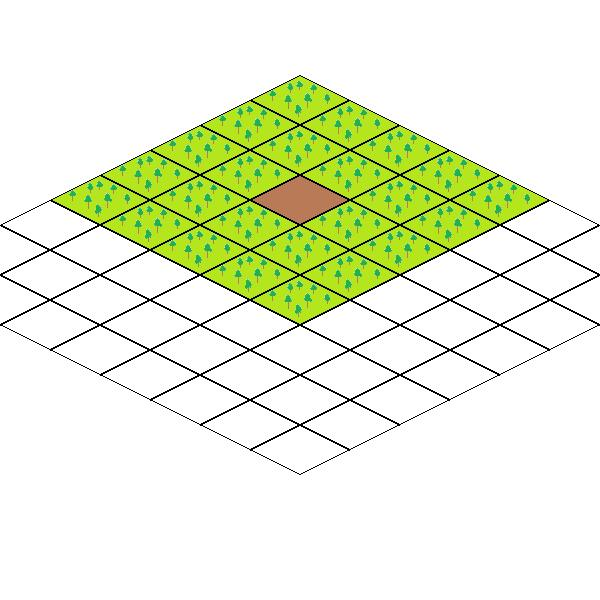
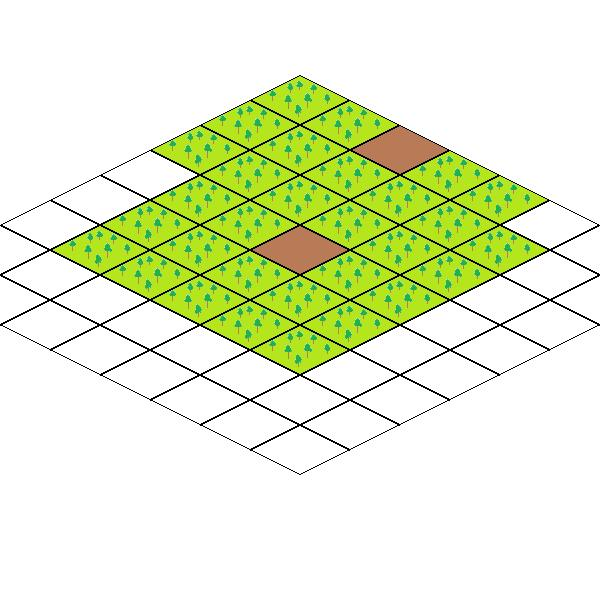
Added some functionality for settlements harvesting resources

Changed region(s): [[0.09, 0.24, 0.9, 0.63], [0.42, 0.27, 0.57, 0.48], [0.57, 0.21, 0.75, 0.3]]

diff --git a/settlement.py b/settlement.py
@@ -2,17 +2,21 @@ from tiles import Tile
 from sprite import Sprite
 from map_render import Map, MapRenderer
 from tile_types import *
+from resources import ResourceStack
 
 class Settlement():
-    def __init__(self, app, tile, mapRenderer):
+    def __init__(self, app, tile, civilization, mapRenderer):
         self.app = app
         self.row = tile.row
         self.col = tile.col
         self.sprite = Tile.defaultSprites['brown_tile']
         self.mapRenderer = mapRenderer
+        self.civilization = civilization
         self.size = 2
         self.settlementTiles = Settlement.createTileList(self.row, self.col, self.size, self.app.map)
         self.population = 2
+        self.harvestedTiles = [self.settlementTiles[0,0]]
+        self.civilization.addSettlement(self)
 
     def __repr__(self):
         return f'settlement(row={self.row}, col={self.col})'
@@ -23,6 +27,14 @@ class Settlement():
     def __hash__(self):
         return hash(str(self))
     
+    def harvestResources(self):
+        for tile in self.harvestedTiles:
+            resources = tile.getResources()
+            if resources == []: continue
+            else: 
+                for stack in resources:
+                    ResourceStack.addStackToCivilization(stack, self.civilization)
+
     def instantiate(self):
         tile = self.app.map.tileList[self.row, self.col]
         Settlement.colorSettlementTiles(self.app, self)

diff --git a/Main.py b/Main.py
@@ -51,7 +51,6 @@ def drawResourceIcons(app):
         imageLocs = icon.getImageLocs()
         for loc in imageLocs:
             imgX, imgY = loc
-            # labelX, labelY = icon.getLabelLoc(imgX,imgY)
             drawImage(icon.getResources()[i].getType().getImagePath(), imgX, imgY)
             i+=1
 
@@ -140,15 +139,21 @@ def onKeyPress(app,key):
     elif key == 's':
         if app.currentTile != None:
             row,col = app.currentTile
-            settlement = Settlement(app, app.map.tileList[row,col], app.mapRenderer)
+            settlement = Settlement(app, app.map.tileList[row,col], app.players[0], app.mapRenderer)
             settlement.instantiate()
-            app.players[0].addSettlement(settlement)
+            # app.players[0].addSettlement(settlement)
             print(len(app.players[0].settlements))
     elif key == 'a':
         if app.currentTile != None:    
             row,col = app.currentTile
             tile = app.map.tileList[row,col]
             print(tile.getType())
+            app.players[0].settlements[0].harvestResources()
+            print(app.players[0].yieldsByType[ResourceStack.ResourceTypes['production']])
+
+
+    # elif key == 'p':
+
 
     elif key.isdigit() and 1 <=int(key) <= 3:
         if app.currentTile != None:

diff --git a/player_civilization.py b/player_civilization.py
@@ -1,12 +1,25 @@
+from resources import ResourceStack
+
 class Civilization:
+    id = 0
     def __init__(self):
-        self.settlements = set()
-        self.sciencePerTurn = 0
-        self.goldPerTurn = 0
-        
+        self.settlements = []
+        # self.sciencePerTurn = 0
+        # self.goldPerTurn = 0
+        # self.productionPerTurn = 0
+        # self.foodPerTurn = 0
+        self.yieldsByType = {ResourceStack.ResourceTypes['production'] : 0, 
+                             ResourceStack.ResourceTypes['food'] : 0}
+        self.id = Civilization.id
+        Civilization.id+=1
+
+    def __repr__(self):
+        return f'civilization(id={Civilization.id})'
+
     def addSettlement(self, settlement):
-        self.settlements.add(settlement)
+        self.settlements.append(settlement)
     
     def removeSettlement(self, settlement):
-        self.settlements.remove(settlement)
+        self.settlements.pop(settlement)
+
     

diff --git a/resources.py b/resources.py
@@ -131,3 +131,12 @@ class ResourceStack:
     
     def setAmount(self, amount):
         self.amount = amount
+
+    # @staticmethod
+    def addStackToCivilization(stack, civilization):
+        type = stack.getType()
+        _yield = 0
+        _yield = civilization.yieldsByType[type]
+        _yield += stack.getAmount()
+        # print(_yield)
+        civilization.yieldsByType[type] = _yield
